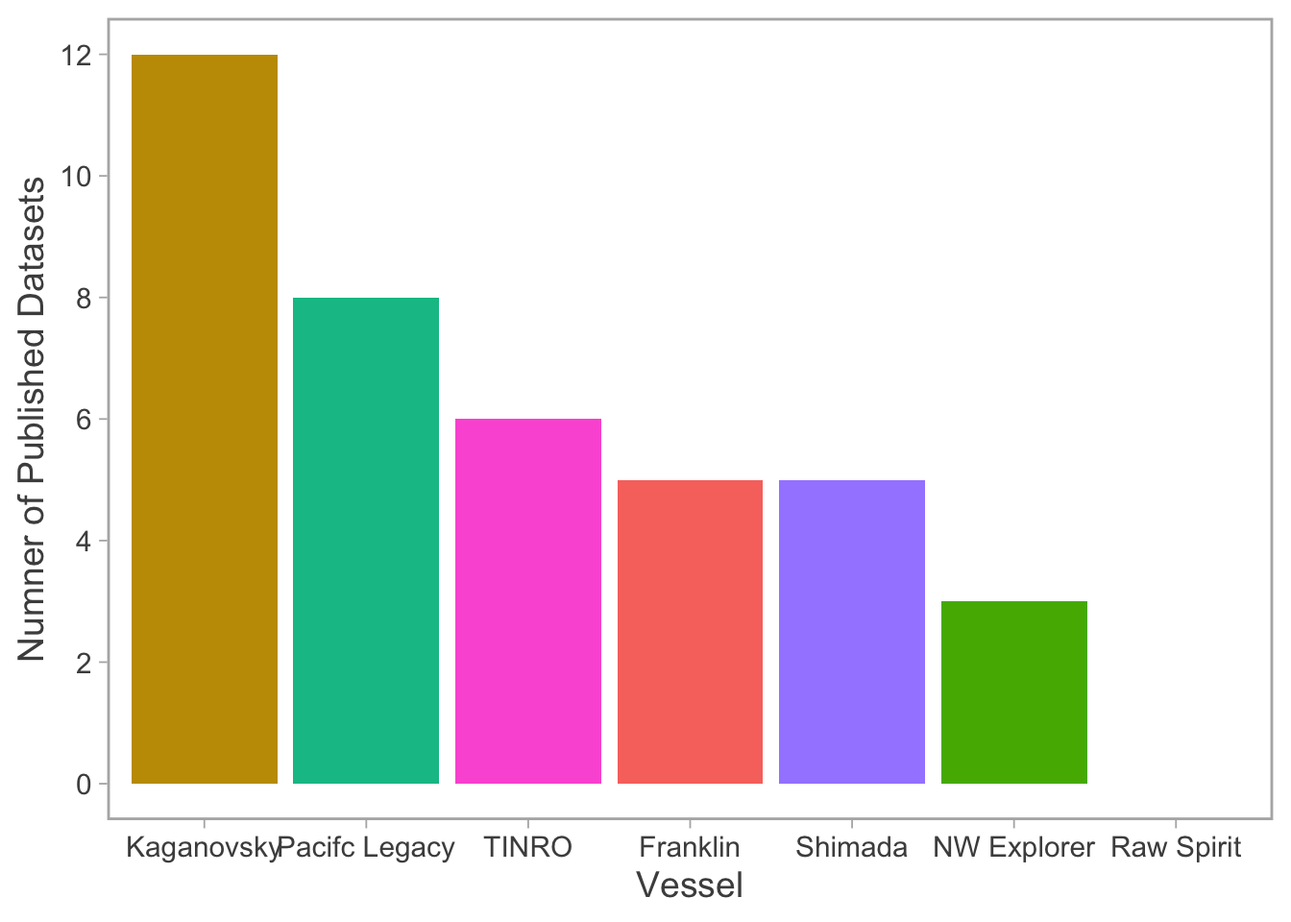
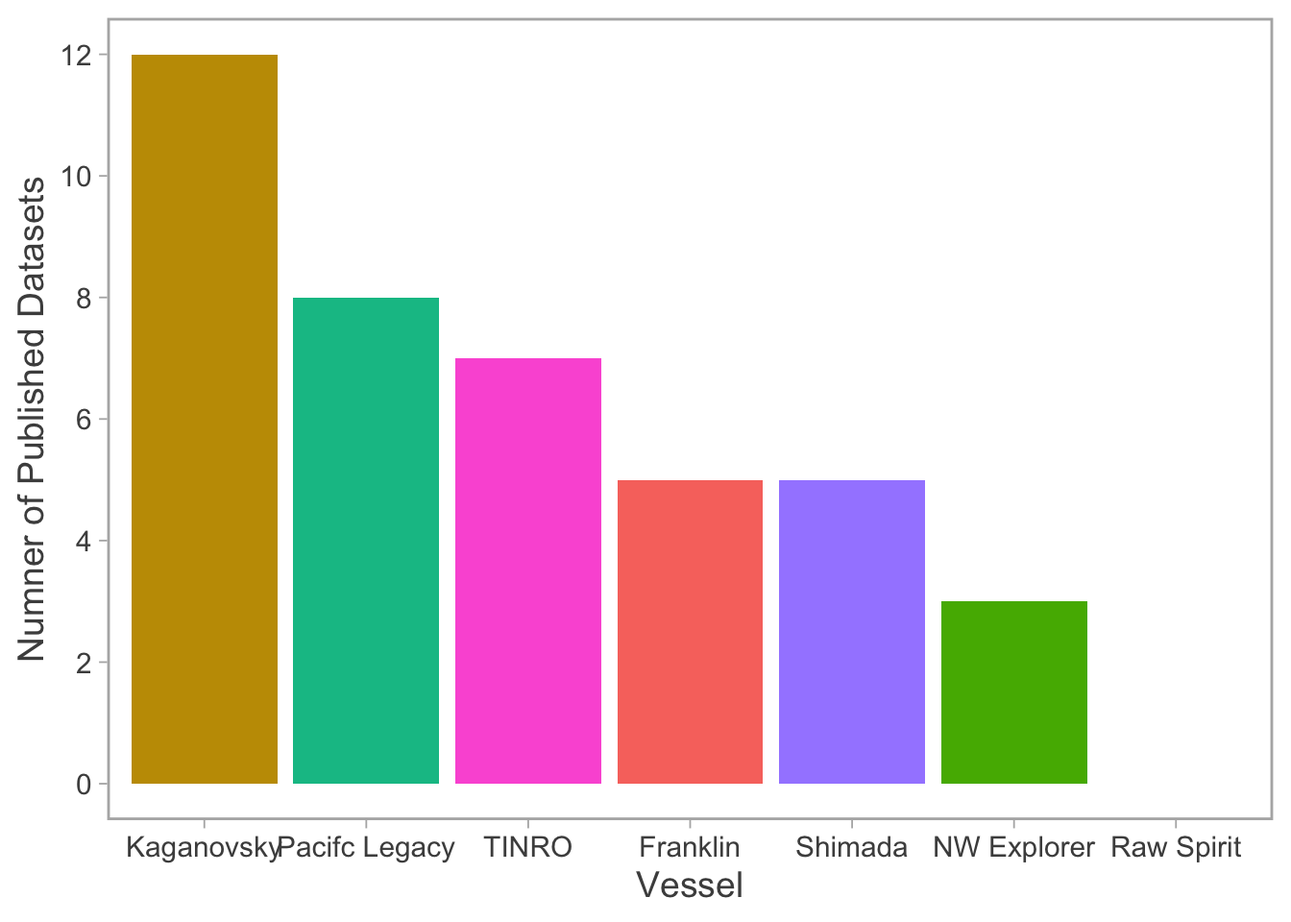
include TINRO diet data

Changed region(s): [[0.3438, 0.375, 0.4688, 0.4688]]

diff --git a/docs/dataset-summary.html b/docs/dataset-summary.html
@@ -386,7 +386,7 @@ Fig 1. The number of datasets received from the 2019 (Kagaonovsky), 2020
 </div>
 <div class="figure">
 <div id="htmlwidget-9bca3cdef57460201845" style="width:672px;height:480px;" class="plotly html-widget"></div>
-<script type="application/json" data-for="htmlwidget-9bca3cdef57460201845">{"x":{"data":[{"orientation":"v","width":0.9,"base":5,"x":[3],"y":[1],"text":"Vessel: Shimada<br />n: 1<br />Status: Not Received<br />Dataset Title: ADCP","type":"bar","textposition":"none","marker":{"autocolorscale":false,"color":"rgba(255,0,0,1)","line":{"width":1.88976377952756,"color":"rgba(205,150,0,1)"}},"name":"(Not Received,ADCP)","legendgroup":"(Not Received,ADCP)","showlegend":true,"xaxis":"x","yaxis":"y","hoverinfo":"text","frame":null},{"orientation":"v","width":0.9,"base":3,"x":[4],"y":[1],"text":"Vessel: Northwest Explorer<br />n: 1<br />Status: Not Received<br />Dataset Title: CTD (temperature, salinity, conductivity, depth, density, turbidity, dissolved oxygen, PAR, Chlorophyll-a fluoresence)","type":"bar","textposition":"none","marker":{"autocolorscale":false,"color":"rgba(255,0,0,1)","line":{"width":1.88976377952756,"color":"rgba(124,174,0,1)"}},"name":"(Not Received,CTD (temperature, salinity, conductivity, depth, density, turbidity, dissolved oxygen, PAR, Chlorophyll-a fluoresence))","legendgroup":"(Not Received,CTD (temperature, salinity, conductivity, depth, density, turbidity, dissolved oxygen, PAR, Chlorophyll-a fluoresence))","showlegend":true,"xaxis":"x","yaxis":"y","hoverinfo":"text","frame":null},{"orientation":"v","width":0.9,"base":3,"x":[5],"y":[1],"text":"Vessel: Raw Spirit<br />n: 1<br />Status: Not Received<br />Dataset Title: CTD (temperature, salinity, conductivity, depth, density, turbidity, dissolved oxygen)","type":"bar","textposition":"none","marker":{"autocolorscale":false,"color":"rgba(255,0,0,1)","line":{"width":1.88976377952756,"color":"rgba(0,190,103,1)"}},"name":"(Not Received,CTD (temperature, salinity, conductivity, depth, density, turbidity, dissolved oxygen))","legendgroup":"(Not Received,CTD (temperature, salinity, conductivity, depth, density, turbidity, dissolved oxygen))","showlegend":true,"xaxis":"x","yaxis":"y","hoverinfo":"text","frame":null},{"orientation":"v","width":[0.9,0.9,0.9],"base":[4,2,4],"x":[2,5,3],"y":[1,1,1],"text":["Vessel: Franklin<br />n: 1<br />Status: Not Received<br />Dataset Title: Flow through thermosalinograph","Vessel: Raw Spirit<br />n: 1<br />Status: Not Received<br />Dataset Title: Flow through thermosalinograph","Vessel: Shimada<br />n: 1<br />Status: Not Received<br />Dataset Title: Flow through thermosalinograph"],"type":"bar","textposition":"none","marker":{"autocolorscale":false,"color":"rgba(255,0,0,1)","line":{"width":1.88976377952756,"color":"rgba(0,191,196,1)"}},"name":"(Not Received,Flow through thermosalinograph)","legendgroup":"(Not Received,Flow through thermosalinograph)","showlegend":true,"xaxis":"x","yaxis":"y","hoverinfo":"text","frame":null},{"orientation":"v","width":[0.9,0.9,0.9,0.9,0.9],"base":[3,2,1,3,4],"x":[2,4,5,3,1],"y":[1,1,1,1,1],"text":["Vessel: Franklin<br />n: 1<br />Status: Not Received<br />Dataset Title: Marine mammals and bird observations","Vessel: Northwest Explorer<br />n: 1<br />Status: Not Received<br />Dataset Title: Marine mammals and bird observations","Vessel: Raw Spirit<br />n: 1<br />Status: Not Received<br />Dataset Title: Marine mammals and bird observations","Vessel: Shimada<br />n: 1<br />Status: Not Received<br />Dataset Title: Marine mammals and bird observations","Vessel: TINRO<br />n: 1<br />Status: Not Received<br />Dataset Title: Marine mammals and bird observations"],"type":"bar","textposition":"none","marker":{"autocolorscale":false,"color":"rgba(255,0,0,1)","line":{"width":1.88976377952756,"color":"rgba(0,169,255,1)"}},"name":"(Not Received,Marine mammals and bird observations)","legendgroup":"(Not Received,Marine mammals and bird observations)","showlegend":true,"xaxis":"x","yaxis":"y","hoverinfo":"text","frame":null},{"orientation":"v","width":0.9,"base":0,"x":[5],"y":[1],"text":"Vessel: Raw Spirit<br />n: 1<br />Status: Not Received<br />Dataset Title: Trawl/fish processing data","type":"bar","textposition":"none","marker":{"autocolorscale":false,"color":"rgba(255,0,0,1)","line":{"width":1.88976377952756,"color":"rgba(255,97,204,1)"}},"name":"(Not Received,Trawl/fish processing data)","legendgroup":"(Not Received,Trawl/fish processing data)","showlegend":true,"xaxis":"x","yaxis":"y","hoverinfo":"text","frame":null},{"orientation":"v","width":[0.9,0.9,0.9,0.9],"base":[2,1,2,3],"x":[2,4,3,1],"y":[1,1,1,1],"text":["Vessel: Franklin<br />n: 1<br />Status: Received<br />Dataset Title: Acoustic backscatter","Vessel: Northwest Explorer<br />n: 1<br />Status: Received<br />Dataset Title: Acoustic backscatter","Vessel: Shimada<br />n: 1<br />Status: Received<br />Dataset Title: Acoustic backscatter","Vessel: TINRO<br />n: 1<br />Status: Received<br />Dataset Title: Acoustic backscatter"],"type":"bar","textposition":"none","marker":{"autocolorscale":false,"color":"rgba(0,255,0,1)","line":{"width":1.88976377952756,"color":"rgba(248,118,109,1)"}},"name":"(Received,Acoustic backscatter)","legendgroup":"(Received,Acoustic backscatter)","showlegend":true,"xaxis":"x","yaxis":"y","hoverinfo":"text","frame":null},{"orientation":"v","width":[0.9,0.9,0.9],"base":[1,1,2],"x":[2,3,1],"y":[1,1,1],"text":["Vessel: Franklin<br />n: 1<br />Status: Received<br />Dataset Title: CTD (temperature, salinity, conductivity, depth, density, turbidity, dissolved oxygen)","Vessel: Shimada<br />n: 1<br />Status: Received<br />Dataset Title: CTD (temperature, salinity, conductivity, depth, density, turbidity, dissolved oxygen)","Vessel: TINRO<br />n: 1<br />Status: Received<br />Dataset Title: CTD (temperature, salinity, conductivity, depth, density, turbidity, dissolved oxygen)"],"type":"bar","textposition":"none","marker":{"autocolorscale":false,"color":"rgba(0,255,0,1)","line":{"width":1.88976377952756,"color":"rgba(0,190,103,1)"}},"name":"(Received,CTD (temperature, salinity, conductivity, depth, density, turbidity, dissolved oxygen))","legendgroup":"(Received,CTD (temperature, salinity, conductivity, depth, density, turbidity, dissolved oxygen))","showlegend":true,"xaxis":"x","yaxis":"y","hoverinfo":"text","frame":null},{"orientation":"v","width":0.9,"base":1,"x":[1],"y":[1],"text":"Vessel: TINRO<br />n: 1<br />Status: Received<br />Dataset Title: Nutrients and dissolved O2 (nitrates, phosphates, silicates, dissolved oxygen)","type":"bar","textposition":"none","marker":{"autocolorscale":false,"color":"rgba(0,255,0,1)","line":{"width":1.88976377952756,"color":"rgba(199,124,255,1)"}},"name":"(Received,Nutrients and dissolved O2 (nitrates, phosphates, silicates, dissolved oxygen))","legendgroup":"(Received,Nutrients and dissolved O2 (nitrates, phosphates, silicates, dissolved oxygen))","showlegend":true,"xaxis":"x","yaxis":"y","hoverinfo":"text","frame":null},{"orientation":"v","width":[0.9,0.9,0.9,0.9],"base":[0,0,0,0],"x":[2,4,3,1],"y":[1,1,1,1],"text":["Vessel: Franklin<br />n: 1<br />Status: Received<br />Dataset Title: Trawl/fish processing data","Vessel: Northwest Explorer<br />n: 1<br />Status: Received<br />Dataset Title: Trawl/fish processing data","Vessel: Shimada<br />n: 1<br />Status: Received<br />Dataset Title: Trawl/fish processing data","Vessel: TINRO<br />n: 1<br />Status: Received<br />Dataset Title: Trawl/fish processing data"],"type":"bar","textposition":"none","marker":{"autocolorscale":false,"color":"rgba(0,255,0,1)","line":{"width":1.88976377952756,"color":"rgba(255,97,204,1)"}},"name":"(Received,Trawl/fish processing data)","legendgroup":"(Received,Trawl/fish processing data)","showlegend":true,"xaxis":"x","yaxis":"y","hoverinfo":"text","frame":null}],"layout":{"margin":{"t":29.0178497301785,"r":9.29846409298464,"b":50.7188950526435,"l":39.5607381410619},"plot_bgcolor":"rgba(255,255,255,1)","paper_bgcolor":"rgba(255,255,255,1)","font":{"color":"rgba(0,0,0,1)","family":"","size":18.5969281859693},"xaxis":{"domain":[0,1],"automargin":true,"type":"linear","autorange":false,"range":[0.4,5.6],"tickmode":"array","ticktext":["TINRO","Franklin","Shimada","Northwest Explorer","Raw Spirit"],"tickvals":[1,2,3,4,5],"categoryorder":"array","categoryarray":["TINRO","Franklin","Shimada","Northwest Explorer","Raw Spirit"],"nticks":null,"ticks":"outside","tickcolor":"rgba(179,179,179,1)","ticklen":4.22657458772029,"tickwidth":0.422657458772029,"showticklabels":true,"tickfont":{"color":"rgba(77,77,77,1)","family":"","size":14.8775425487754},"tickangle":-0,"showline":false,"linecolor":null,"linewidth":0,"showgrid":false,"gridcolor":null,"gridwidth":0,"zeroline":false,"anchor":"y","title":{"text":"Vessel","font":{"color":"rgba(77,77,77,1)","family":"","size":18.5969281859693}},"hoverformat":".2f"},"yaxis":{"domain":[0,1],"automargin":true,"type":"linear","autorange":false,"range":[-0.3,6.3],"tickmode":"array","ticktext":["0","1","2","3","4","5","6"],"tickvals":[0,1,2,3,4,5,6],"categoryorder":"array","categoryarray":["0","1","2","3","4","5","6"],"nticks":null,"ticks":"outside","tickcolor":"rgba(179,179,179,1)","ticklen":4.22657458772029,"tickwidth":0.422657458772029,"showticklabels":true,"tickfont":{"color":"rgba(77,77,77,1)","family":"","size":14.8775425487754},"tickangle":-0,"showline":false,"linecolor":null,"linewidth":0,"showgrid":false,"gridcolor":null,"gridwidth":0,"zeroline":false,"anchor":"x","title":{"text":"Number of Datasets","font":{"color":"rgba(77,77,77,1)","family":"","size":18.5969281859693}},"hoverformat":".2f"},"shapes":[{"type":"rect","fillcolor":"transparent","line":{"color":"rgba(179,179,179,1)","width":1.32835201328352,"linetype":"solid"},"yref":"paper","xref":"paper","x0":0,"x1":1,"y0":0,"y1":1}],"showlegend":false,"legend":{"bgcolor":"transparent","bordercolor":"transparent","borderwidth":2.40515390121689,"font":{"color":"rgba(77,77,77,1)","family":"","size":13.0178497301785}},"hovermode":"closest","barmode":"relative"},"config":{"doubleClick":"reset","modeBarButtonsToAdd":["hoverclosest","hovercompare"],"showSendToCloud":false},"source":"A","attrs":{"15bf29a50363":{"x":{},"y":{},"fill":{},"colour":{},"type":"bar"}},"cur_data":"15bf29a50363","visdat":{"15bf29a50363":["function (y) ","x"]},"highlight":{"on":"plotly_click","persistent":false,"dynamic":false,"selectize":false,"opacityDim":0.2,"selected":{"opacity":1},"debounce":0},"shinyEvents":["plotly_hover","plotly_click","plotly_selected","plotly_relayout","plotly_brushed","plotly_brushing","plotly_clickannotation","plotly_doubleclick","plotly_deselect","plotly_afterplot","plotly_sunburstclick"],"base_url":"https://plot.ly"},"evals":[],"jsHooks":[]}</script>
+<script type="application/json" data-for="htmlwidget-9bca3cdef57460201845">{"x":{"data":[{"orientation":"v","width":0.9,"base":5,"x":[3],"y":[1],"text":"Vessel: Shimada<br />n: 1<br />Status: Not Received<br />Dataset Title: ADCP","type":"bar","textposition":"none","marker":{"autocolorscale":false,"color":"rgba(255,0,0,1)","line":{"width":1.88976377952756,"color":"rgba(205,150,0,1)"}},"name":"(Not Received,ADCP)","legendgroup":"(Not Received,ADCP)","showlegend":true,"xaxis":"x","yaxis":"y","hoverinfo":"text","frame":null},{"orientation":"v","width":0.9,"base":3,"x":[4],"y":[1],"text":"Vessel: Northwest Explorer<br />n: 1<br />Status: Not Received<br />Dataset Title: CTD (temperature, salinity, conductivity, depth, density, turbidity, dissolved oxygen, PAR, Chlorophyll-a fluoresence)","type":"bar","textposition":"none","marker":{"autocolorscale":false,"color":"rgba(255,0,0,1)","line":{"width":1.88976377952756,"color":"rgba(124,174,0,1)"}},"name":"(Not Received,CTD (temperature, salinity, conductivity, depth, density, turbidity, dissolved oxygen, PAR, Chlorophyll-a fluoresence))","legendgroup":"(Not Received,CTD (temperature, salinity, conductivity, depth, density, turbidity, dissolved oxygen, PAR, Chlorophyll-a fluoresence))","showlegend":true,"xaxis":"x","yaxis":"y","hoverinfo":"text","frame":null},{"orientation":"v","width":0.9,"base":3,"x":[5],"y":[1],"text":"Vessel: Raw Spirit<br />n: 1<br />Status: Not Received<br />Dataset Title: CTD (temperature, salinity, conductivity, depth, density, turbidity, dissolved oxygen)","type":"bar","textposition":"none","marker":{"autocolorscale":false,"color":"rgba(255,0,0,1)","line":{"width":1.88976377952756,"color":"rgba(0,190,103,1)"}},"name":"(Not Received,CTD (temperature, salinity, conductivity, depth, density, turbidity, dissolved oxygen))","legendgroup":"(Not Received,CTD (temperature, salinity, conductivity, depth, density, turbidity, dissolved oxygen))","showlegend":true,"xaxis":"x","yaxis":"y","hoverinfo":"text","frame":null},{"orientation":"v","width":[0.9,0.9,0.9],"base":[4,2,4],"x":[2,5,3],"y":[1,1,1],"text":["Vessel: Franklin<br />n: 1<br />Status: Not Received<br />Dataset Title: Flow through thermosalinograph","Vessel: Raw Spirit<br />n: 1<br />Status: Not Received<br />Dataset Title: Flow through thermosalinograph","Vessel: Shimada<br />n: 1<br />Status: Not Received<br />Dataset Title: Flow through thermosalinograph"],"type":"bar","textposition":"none","marker":{"autocolorscale":false,"color":"rgba(255,0,0,1)","line":{"width":1.88976377952756,"color":"rgba(0,191,196,1)"}},"name":"(Not Received,Flow through thermosalinograph)","legendgroup":"(Not Received,Flow through thermosalinograph)","showlegend":true,"xaxis":"x","yaxis":"y","hoverinfo":"text","frame":null},{"orientation":"v","width":[0.9,0.9,0.9,0.9,0.9],"base":[3,2,1,3,4],"x":[2,4,5,3,1],"y":[1,1,1,1,1],"text":["Vessel: Franklin<br />n: 1<br />Status: Not Received<br />Dataset Title: Marine mammals and bird observations","Vessel: Northwest Explorer<br />n: 1<br />Status: Not Received<br />Dataset Title: Marine mammals and bird observations","Vessel: Raw Spirit<br />n: 1<br />Status: Not Received<br />Dataset Title: Marine mammals and bird observations","Vessel: Shimada<br />n: 1<br />Status: Not Received<br />Dataset Title: Marine mammals and bird observations","Vessel: TINRO<br />n: 1<br />Status: Not Received<br />Dataset Title: Marine mammals and bird observations"],"type":"bar","textposition":"none","marker":{"autocolorscale":false,"color":"rgba(255,0,0,1)","line":{"width":1.88976377952756,"color":"rgba(0,169,255,1)"}},"name":"(Not Received,Marine mammals and bird observations)","legendgroup":"(Not Received,Marine mammals and bird observations)","showlegend":true,"xaxis":"x","yaxis":"y","hoverinfo":"text","frame":null},{"orientation":"v","width":0.9,"base":0,"x":[5],"y":[1],"text":"Vessel: Raw Spirit<br />n: 1<br />Status: Not Received<br />Dataset Title: Trawl/fish processing data","type":"bar","textposition":"none","marker":{"autocolorscale":false,"color":"rgba(255,0,0,1)","line":{"width":1.88976377952756,"color":"rgba(255,97,204,1)"}},"name":"(Not Received,Trawl/fish processing data)","legendgroup":"(Not Received,Trawl/fish processing data)","showlegend":true,"xaxis":"x","yaxis":"y","hoverinfo":"text","frame":null},{"orientation":"v","width":[0.9,0.9,0.9,0.9],"base":[2,1,2,3],"x":[2,4,3,1],"y":[1,1,1,1],"text":["Vessel: Franklin<br />n: 1<br />Status: Received<br />Dataset Title: Acoustic backscatter","Vessel: Northwest Explorer<br />n: 1<br />Status: Received<br />Dataset Title: Acoustic backscatter","Vessel: Shimada<br />n: 1<br />Status: Received<br />Dataset Title: Acoustic backscatter","Vessel: TINRO<br />n: 1<br />Status: Received<br />Dataset Title: Acoustic backscatter"],"type":"bar","textposition":"none","marker":{"autocolorscale":false,"color":"rgba(0,255,0,1)","line":{"width":1.88976377952756,"color":"rgba(248,118,109,1)"}},"name":"(Received,Acoustic backscatter)","legendgroup":"(Received,Acoustic backscatter)","showlegend":true,"xaxis":"x","yaxis":"y","hoverinfo":"text","frame":null},{"orientation":"v","width":[0.9,0.9,0.9],"base":[1,1,2],"x":[2,3,1],"y":[1,1,1],"text":["Vessel: Franklin<br />n: 1<br />Status: Received<br />Dataset Title: CTD (temperature, salinity, conductivity, depth, density, turbidity, dissolved oxygen)","Vessel: Shimada<br />n: 1<br />Status: Received<br />Dataset Title: CTD (temperature, salinity, conductivity, depth, density, turbidity, dissolved oxygen)","Vessel: TINRO<br />n: 1<br />Status: Received<br />Dataset Title: CTD (temperature, salinity, conductivity, depth, density, turbidity, dissolved oxygen)"],"type":"bar","textposition":"none","marker":{"autocolorscale":false,"color":"rgba(0,255,0,1)","line":{"width":1.88976377952756,"color":"rgba(0,190,103,1)"}},"name":"(Received,CTD (temperature, salinity, conductivity, depth, density, turbidity, dissolved oxygen))","legendgroup":"(Received,CTD (temperature, salinity, conductivity, depth, density, turbidity, dissolved oxygen))","showlegend":true,"xaxis":"x","yaxis":"y","hoverinfo":"text","frame":null},{"orientation":"v","width":0.9,"base":1,"x":[1],"y":[1],"text":"Vessel: TINRO<br />n: 1<br />Status: Received<br />Dataset Title: Nutrients and dissolved O2 (nitrates, phosphates, silicates, dissolved oxygen)","type":"bar","textposition":"none","marker":{"autocolorscale":false,"color":"rgba(0,255,0,1)","line":{"width":1.88976377952756,"color":"rgba(199,124,255,1)"}},"name":"(Received,Nutrients and dissolved O2 (nitrates, phosphates, silicates, dissolved oxygen))","legendgroup":"(Received,Nutrients and dissolved O2 (nitrates, phosphates, silicates, dissolved oxygen))","showlegend":true,"xaxis":"x","yaxis":"y","hoverinfo":"text","frame":null},{"orientation":"v","width":[0.9,0.9,0.9,0.9],"base":[0,0,0,0],"x":[2,4,3,1],"y":[1,1,1,1],"text":["Vessel: Franklin<br />n: 1<br />Status: Received<br />Dataset Title: Trawl/fish processing data","Vessel: Northwest Explorer<br />n: 1<br />Status: Received<br />Dataset Title: Trawl/fish processing data","Vessel: Shimada<br />n: 1<br />Status: Received<br />Dataset Title: Trawl/fish processing data","Vessel: TINRO<br />n: 1<br />Status: Received<br />Dataset Title: Trawl/fish processing data"],"type":"bar","textposition":"none","marker":{"autocolorscale":false,"color":"rgba(0,255,0,1)","line":{"width":1.88976377952756,"color":"rgba(255,97,204,1)"}},"name":"(Received,Trawl/fish processing data)","legendgroup":"(Received,Trawl/fish processing data)","showlegend":true,"xaxis":"x","yaxis":"y","hoverinfo":"text","frame":null}],"layout":{"margin":{"t":29.0178497301785,"r":9.29846409298464,"b":50.7188950526435,"l":39.5607381410619},"plot_bgcolor":"rgba(255,255,255,1)","paper_bgcolor":"rgba(255,255,255,1)","font":{"color":"rgba(0,0,0,1)","family":"","size":18.5969281859693},"xaxis":{"domain":[0,1],"automargin":true,"type":"linear","autorange":false,"range":[0.4,5.6],"tickmode":"array","ticktext":["TINRO","Franklin","Shimada","Northwest Explorer","Raw Spirit"],"tickvals":[1,2,3,4,5],"categoryorder":"array","categoryarray":["TINRO","Franklin","Shimada","Northwest Explorer","Raw Spirit"],"nticks":null,"ticks":"outside","tickcolor":"rgba(179,179,179,1)","ticklen":4.22657458772029,"tickwidth":0.422657458772029,"showticklabels":true,"tickfont":{"color":"rgba(77,77,77,1)","family":"","size":14.8775425487754},"tickangle":-0,"showline":false,"linecolor":null,"linewidth":0,"showgrid":false,"gridcolor":null,"gridwidth":0,"zeroline":false,"anchor":"y","title":{"text":"Vessel","font":{"color":"rgba(77,77,77,1)","family":"","size":18.5969281859693}},"hoverformat":".2f"},"yaxis":{"domain":[0,1],"automargin":true,"type":"linear","autorange":false,"range":[-0.3,6.3],"tickmode":"array","ticktext":["0","1","2","3","4","5","6"],"tickvals":[0,1,2,3,4,5,6],"categoryorder":"array","categoryarray":["0","1","2","3","4","5","6"],"nticks":null,"ticks":"outside","tickcolor":"rgba(179,179,179,1)","ticklen":4.22657458772029,"tickwidth":0.422657458772029,"showticklabels":true,"tickfont":{"color":"rgba(77,77,77,1)","family":"","size":14.8775425487754},"tickangle":-0,"showline":false,"linecolor":null,"linewidth":0,"showgrid":false,"gridcolor":null,"gridwidth":0,"zeroline":false,"anchor":"x","title":{"text":"Number of Datasets","font":{"color":"rgba(77,77,77,1)","family":"","size":18.5969281859693}},"hoverformat":".2f"},"shapes":[{"type":"rect","fillcolor":"transparent","line":{"color":"rgba(179,179,179,1)","width":1.32835201328352,"linetype":"solid"},"yref":"paper","xref":"paper","x0":0,"x1":1,"y0":0,"y1":1}],"showlegend":false,"legend":{"bgcolor":"transparent","bordercolor":"transparent","borderwidth":2.40515390121689,"font":{"color":"rgba(77,77,77,1)","family":"","size":13.0178497301785}},"hovermode":"closest","barmode":"relative"},"config":{"doubleClick":"reset","modeBarButtonsToAdd":["hoverclosest","hovercompare"],"showSendToCloud":false},"source":"A","attrs":{"1bda29832b5a":{"x":{},"y":{},"fill":{},"colour":{},"type":"bar"}},"cur_data":"1bda29832b5a","visdat":{"1bda29832b5a":["function (y) ","x"]},"highlight":{"on":"plotly_click","persistent":false,"dynamic":false,"selectize":false,"opacityDim":0.2,"selected":{"opacity":1},"debounce":0},"shinyEvents":["plotly_hover","plotly_click","plotly_selected","plotly_relayout","plotly_brushed","plotly_brushing","plotly_clickannotation","plotly_doubleclick","plotly_deselect","plotly_afterplot","plotly_sunburstclick"],"base_url":"https://plot.ly"},"evals":[],"jsHooks":[]}</script>
 <p class="caption">
 Figure 2. The number of datasets from the 2022 IYS Expeditions in the
 ‘At sea observations / Data reported in Cruise Report’ Data Category
@@ -423,7 +423,7 @@ Data Policy</a></li>
 <p>Table 2. Data that are not yet available publicly but are available
 internally.</p>
 <div id="htmlwidget-de72c7bc2ed7efae3673" class="reactable html-widget" style="width:auto;height:auto;"></div>
-<script type="application/json" data-for="htmlwidget-de72c7bc2ed7efae3673">{"x":{"tag":{"name":"Reactable","attribs":{"data":{"Dataset Title":["Salmon diet data from the 2020 Gulf of Alaska International Year of the Salmon Expedition","Environmental DNA (eDNA) from the 2019 and 2020 Gulf of Alaska International Year of the Salmon Expeditions","Salmon Diet data from the 2019 Gulf of Alaska International Year of the Salmon Expedition","Hydroacoustic Data from the 2019 Gulf of Alaska International Year of the Salmon Expedition","Salmon Diet data from the 2020 Gulf of Alaska International Year of the Salmon Expedition","Acoustic backscatter","Acoustic backscatter","Acoustic backscatter","Acoustic backscatter"],"Year":[2020,20192020,2019,2019,2020,2022,2022,2022,2022],"Vessel":["Pacific Legacy NO 1","Professor Kaganovsky, Pacific Legacy NO 1","Professor Kaganovsky","Professor Kaganovsky","Pacific Legacy NO 1","Franklin","Northwest Explorer","Shimada","TINRO"],"Contact Person":["Evgeny Pakhomov","Christoph Deeg","Brian Hunt","Stephane Gauthier","Evgeny Pakhomov","John Dower","Jim Murphy","Brandon Chasco (ship)","Vladimir Polyanichko "],"Contact email":["epakhomov@eoas.ubc.ca","Christoph.Deeg@dfo-mpo.gc.ca","b.hunt@oceans.ubc.ca","stephane.gauthier@dfo-mpo.gc.ca","epakhomov@eoas.ubc.ca","dower@uvic.ca","jim.murphy@noaa.gov",null,null],"Link to Access Data":["https://doi.org/10.21966/w2ht-qn97","https://doi.org/10.21966/2cpk-8922","https://doi.org/10.21966/wzb8-ns19","https://iys.hakai.org/dataset/ca-cioos_f2d3b46b-6745-4b70-a7a2-a552704e498e","https://doi.org/10.21966/w2ht-qn97","https://malahat.hakai.org","https://malahat.hakai.org","https://malahat.hakai.org","https://malahat.hakai.org"],"Status":[2,2,2,1,2,2,2,2,2],"Access Constraints":["Internal access only","Internal access only","Internal access only","Internal access only","Internal access only","Internal access only","Internal access only","Internal access only","Internal access only"]},"columns":[{"accessor":"Dataset Title","name":"Dataset Title","type":"character"},{"accessor":"Year","name":"Year","type":"numeric"},{"accessor":"Vessel","name":"Vessel","type":"character"},{"accessor":"Contact Person","name":"Contact Person","type":"character"},{"accessor":"Contact email","name":"Contact email","type":"character"},{"accessor":"Link to Access Data","name":"Link to Access Data","type":"character","cell":"\n    function(cellInfo) {\n      // Render as a link\n      const url = cellInfo.value\n      return '<a href=\"' + url + '\" target=\"_blank\">' + cellInfo.value + '<\/a>'\n    }\n  ","html":true},{"accessor":"Status","name":"Status","type":"numeric"},{"accessor":"Access Constraints","name":"Access Constraints","type":"character"}],"resizable":true,"searchable":true,"defaultSorted":[{"id":"Status","desc":true}],"defaultPageSize":10,"paginationType":"numbers","showPageInfo":true,"minRows":1,"dataKey":"3121edaa9cefe6ed1afc65fdb18e136c"},"children":[]},"class":"reactR_markup"},"evals":["tag.attribs.columns.5.cell"],"jsHooks":[]}</script>
+<script type="application/json" data-for="htmlwidget-de72c7bc2ed7efae3673">{"x":{"tag":{"name":"Reactable","attribs":{"data":{"Dataset Title":["Salmon diet data from the 2020 Gulf of Alaska International Year of the Salmon Expedition","Environmental DNA (eDNA) from the 2019 and 2020 Gulf of Alaska International Year of the Salmon Expeditions","Salmon Diet data from the 2019 Gulf of Alaska International Year of the Salmon Expedition","Hydroacoustic Data from the 2019 Gulf of Alaska International Year of the Salmon Expedition","Salmon Diet data from the 2020 Gulf of Alaska International Year of the Salmon Expedition","Acoustic backscatter","Acoustic backscatter","Acoustic backscatter","Acoustic backscatter","Salmon diets"],"Year":[2020,20192020,2019,2019,2020,2022,2022,2022,2022,2022],"Vessel":["Pacific Legacy NO 1","Professor Kaganovsky, Pacific Legacy NO 1","Professor Kaganovsky","Professor Kaganovsky","Pacific Legacy NO 1","Franklin","Northwest Explorer","Shimada","TINRO","TINRO"],"Contact Person":["Evgeny Pakhomov","Christoph Deeg","Brian Hunt","Stephane Gauthier","Evgeny Pakhomov","John Dower","Jim Murphy","Brandon Chasco (ship)","Vladimir Polyanichko ","Evgeny Pakhomov"],"Contact email":["epakhomov@eoas.ubc.ca","Christoph.Deeg@dfo-mpo.gc.ca","b.hunt@oceans.ubc.ca","stephane.gauthier@dfo-mpo.gc.ca","epakhomov@eoas.ubc.ca","dower@uvic.ca","jim.murphy@noaa.gov",null,null,"epakhomov@eoas.ubc.ca"],"Link to Access Data":["https://doi.org/10.21966/w2ht-qn97","https://doi.org/10.21966/2cpk-8922","https://doi.org/10.21966/wzb8-ns19","https://iys.hakai.org/dataset/ca-cioos_f2d3b46b-6745-4b70-a7a2-a552704e498e","https://doi.org/10.21966/w2ht-qn97","https://iys.hakai.org/dataset/ca-cioos_8914e8cf-1b3e-44ff-bf16-049df9ca9631","https://iys.hakai.org/dataset/ca-cioos_5331feb9-8826-4323-a79b-4b05e8535b68","https://iys.hakai.org/dataset/ca-cioos_74d119f1-cd7b-4f99-a94b-5d3b3ca3b7d5","https://iys.hakai.org/dataset/ca-cioos_e557790a-7e8a-44db-b9b1-794dfa4b6df7",null],"Status":[2,2,2,1,2,2,2,2,2,2],"Access Constraints":["Internal access only","Internal access only","Internal access only","Internal access only","Internal access only","Internal access only","Internal access only","Internal access only","Internal access only","Internal access only"]},"columns":[{"accessor":"Dataset Title","name":"Dataset Title","type":"character"},{"accessor":"Year","name":"Year","type":"numeric"},{"accessor":"Vessel","name":"Vessel","type":"character"},{"accessor":"Contact Person","name":"Contact Person","type":"character"},{"accessor":"Contact email","name":"Contact email","type":"character"},{"accessor":"Link to Access Data","name":"Link to Access Data","type":"character","cell":"\n    function(cellInfo) {\n      // Render as a link\n      const url = cellInfo.value\n      return '<a href=\"' + url + '\" target=\"_blank\">' + cellInfo.value + '<\/a>'\n    }\n  ","html":true},{"accessor":"Status","name":"Status","type":"numeric"},{"accessor":"Access Constraints","name":"Access Constraints","type":"character"}],"resizable":true,"searchable":true,"defaultSorted":[{"id":"Status","desc":true}],"defaultPageSize":10,"paginationType":"numbers","showPageInfo":true,"minRows":1,"dataKey":"2daf95639227bc74966a782d2ffd6349"},"children":[]},"class":"reactR_markup"},"evals":["tag.attribs.columns.5.cell"],"jsHooks":[]}</script>
 </div>
 </div>
 <div id="data-not-received" class="section level2">
